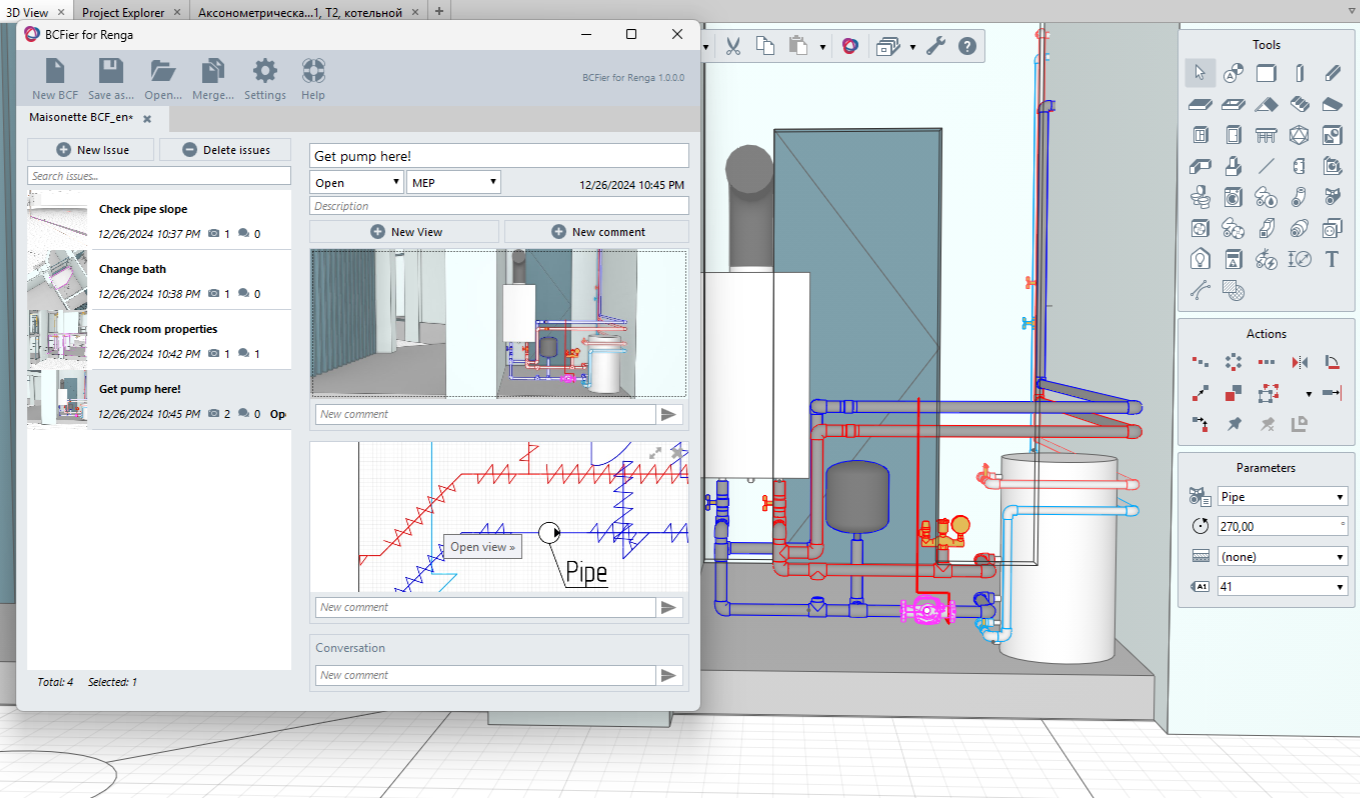
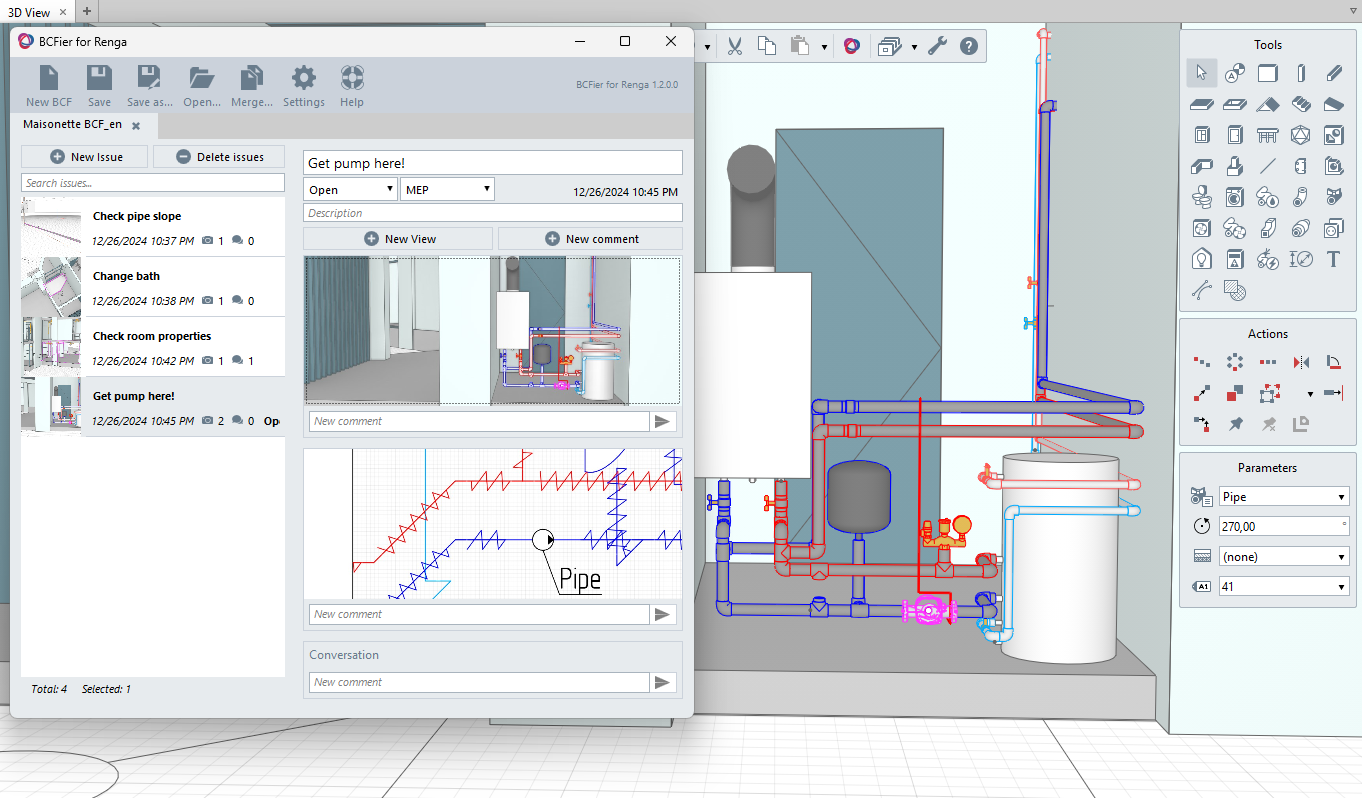
New screenshots

diff --git a/AssemblyVersionInfo.cs b/AssemblyVersionInfo.cs
@@ -9,5 +9,5 @@
 // You can specify all the values or you can default the Build and Revision Numbers 
 // by using the '*' as shown below:
 // [assembly: AssemblyVersion("1.0.*")]
-[assembly: AssemblyVersion("1.1.0.0")]
-[assembly: AssemblyFileVersion("1.1.0.0")]
+[assembly: AssemblyVersion("1.2.0.0")]
+[assembly: AssemblyFileVersion("1.2.0.0")]
